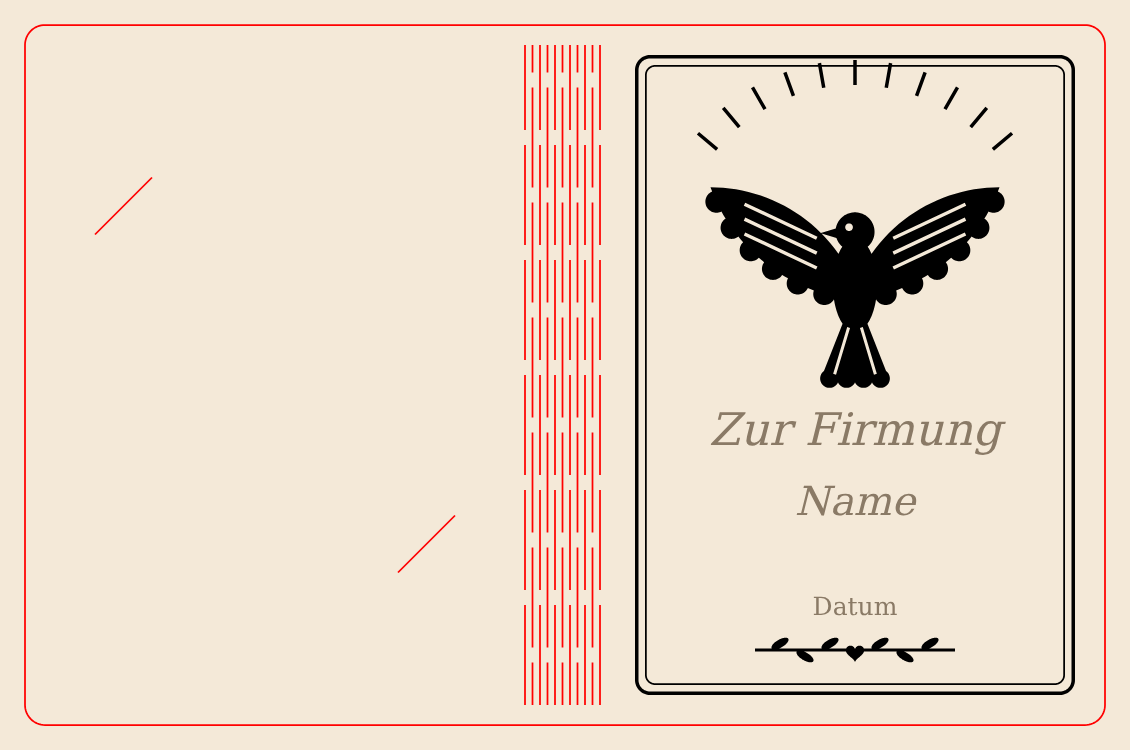
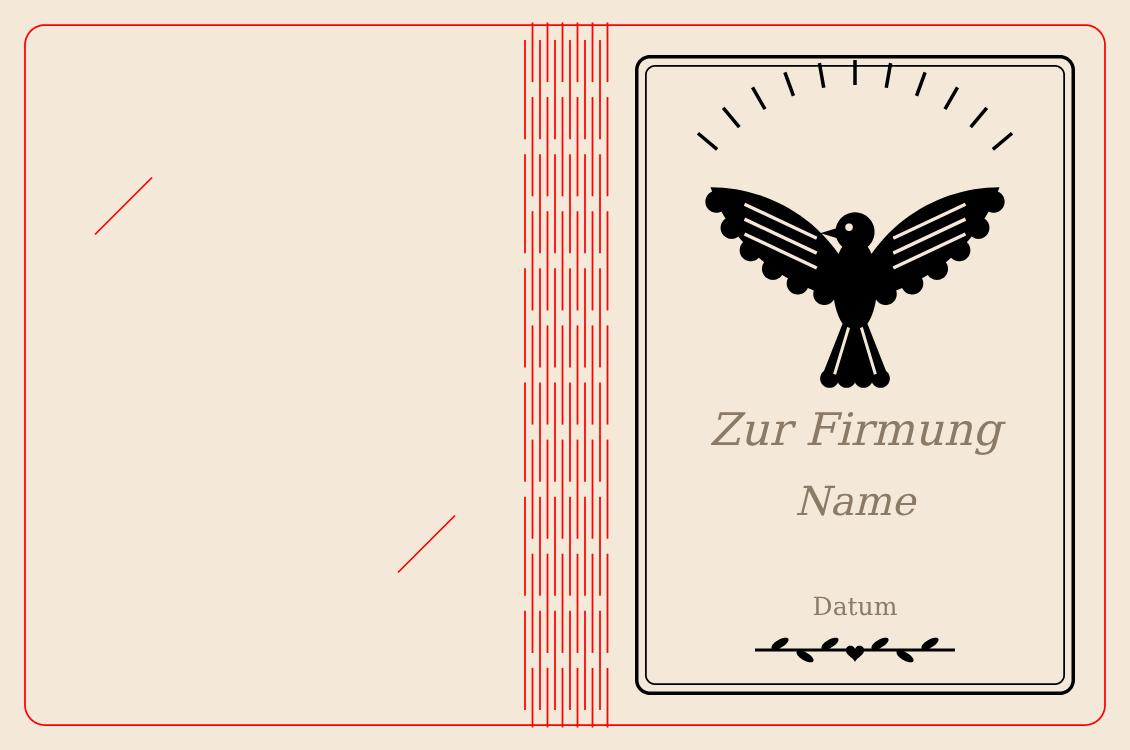
Fix living hinge: open alternate slits to the edge so no solid band remains
Claude-Session: https://claude.ai/code/session_01N4H9QYeD71FtDVpzZmrj4t

diff --git a/designs/generator_etui_gedenktafel.py b/designs/generator_etui_gedenktafel.py
@@ -133,17 +133,23 @@ def geld_etui(variant):
     x_back, x_h0, x_h1, x_front = m, m + PW, m + PW + HW, m + PW + HW
     outer = rrect(m, m, m + 2 * PW + HW, m + PH, R)
     cut_lines = []
-    # Biegescharnier: versetzte Schlitze, Abstand 1.5 mm, Steg 3 mm, Rand 4 mm
-    sp, L, b, edge = 1.5, 20.0, 3.0, 4.0
-    ncol = int(HW / sp)
+    # Biegescharnier: gerade Spalten geschlossen (Steg am Rand), ungerade Spalten zum Rand hin offen,
+    # damit kein durchgehender Holzstreifen quer ueber das Scharnier bleibt.
+    sp, b, nsl = 1.5, 3.0, 6
+    L = (PH - (nsl + 1) * b) / nsl
+    p = L + b
+    ncol = int(round(HW / sp))
     for c in range(ncol + 1):
         x = x_h0 + c * sp
-        off = 0 if c % 2 == 0 else (L + b) / 2
-        y = m + edge - off
-        while y < m + PH - edge:
-            y0, y1 = max(y, m + edge), min(y + L, m + PH - edge)
-            if y1 - y0 > 3: cut_lines.append([(x, y0), (x, y1)])
-            y += L + b
+        if c % 2 == 0:
+            for k in range(nsl):
+                y0 = m + b + k * p
+                cut_lines.append([(x, y0), (x, y0 + L)])
+        else:
+            bridges = [m + b / 2 + (k + 0.5) * p for k in range(nsl)]
+            edges = [m - 0.5] + [y for bc in bridges for y in (bc - b / 2, bc + b / 2)] + [m + PH + 0.5]
+            for i in range(0, len(edges), 2):
+                cut_lines.append([(x, edges[i]), (x, edges[i + 1])])
     # Eckenhalter fuer gefalteten Schein (Rueckseite innen), Feld 72 x 79 mm
     cx_b, cy_b = x_back + PW / 2, m + PH / 2
     fw, fh, sl = 72.0, 79.0, 12.0
